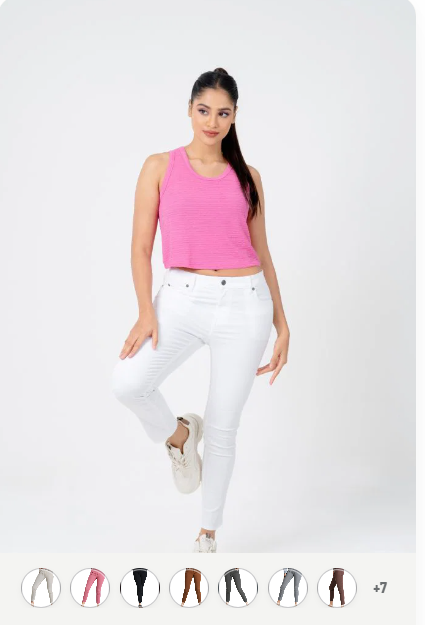
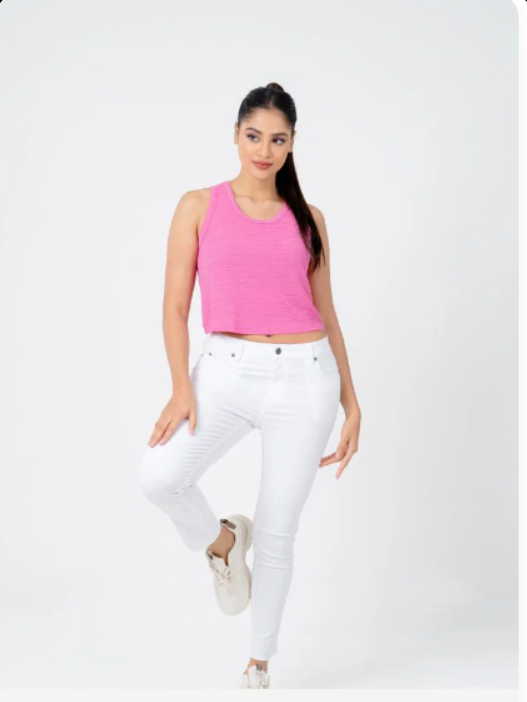
Add new images and enhance index.html with updated navbar, carousel, and card components

diff --git a/index.html b/index.html
@@ -21,44 +21,87 @@
             </a>
         </div>
     </nav>
-    <ul class="nav nav-tabs" id="myTab" role="tablist">
-        <li class="nav-item" role="presentation">
-            <button class="nav-link active" id="home-tab" data-bs-toggle="tab" data-bs-target="#home-tab-pane"
-                type="button" role="tab" aria-controls="home-tab-pane" aria-selected="true">Home</button>
-        </li>
-        <li class="nav-item" role="presentation">
-            <button class="nav-link" id="profile-tab" data-bs-toggle="tab" data-bs-target="#profile-tab-pane"
-                type="button" role="tab" aria-controls="profile-tab-pane" aria-selected="false">Profile</button>
-        </li>
-        <li class="nav-item" role="presentation">
-            <button class="nav-link" id="contact-tab" data-bs-toggle="tab" data-bs-target="#contact-tab-pane"
-                type="button" role="tab" aria-controls="contact-tab-pane" aria-selected="false">Contact</button>
-        </li>
-        <li class="nav-item" role="presentation">
-            <button class="nav-link" id="disabled-tab" data-bs-toggle="tab" data-bs-target="#disabled-tab-pane"
-                type="button" role="tab" aria-controls="disabled-tab-pane" aria-selected="false"
-                disabled>Disabled</button>
-        </li>
-    </ul>
-    <div class="tab-content" id="myTabContent">
-        <div class="tab-pane show active" id="home-tab-pane" role="tabpanel" aria-labelledby="home-tab" tabindex="0">
-            <strong>Home tab’s</strong>
+    <nav class="navbar md:navbar-expand bg-1" data-bs-theme="dark">
+        <div class="container-fluid">
+            <a class="navbar-brand" href="index.html">MOOSE WORLD</a>
+            <button class="btn-icon navbar-toggler" type="button" data-bs-toggle="drawer"
+                data-bs-target="#navbarDarkDrawer" aria-controls="navbarDarkDrawer" aria-expanded="false"
+                aria-label="Toggle navigation">
+                <span class="navbar-toggler-icon" aria-hidden="true"></span>
+            </button>
+            <dialog class="drawer drawer-end" tabindex="-1" id="navbarDarkDrawer"
+                aria-labelledby="navbarDarkDrawerLabel">
+                <div class="drawer-header">
+                    <h5 class="drawer-title" id="navbarDarkDrawerLabel"></h5>
+                    <button type="button" class="btn-close" data-bs-dismiss="drawer" aria-label="Close"></button>
+                </div>
+                <div class="drawer-body mb-2 md:mb-0">
+                    <ul class="nav navbar-nav me-auto">
+                        <li class="nav-item">
+                            <a class="nav-link active" aria-current="page" href="Men.html">MEN</a>
+                        </li>
+                        <li class="nav-item">
+                            <a class="nav-link" href="Women.html">WOMEN</a>
+                        </li>
+                        <li class="nav-item">
+                            <button class="nav-link" type="button" data-bs-toggle="menu" aria-expanded="false">
+                                CRICKET
+                            </button>
+                            <div class="menu">
+                                <a class="menu-item" href="Cricket.html">Action</a>
+                                <a class="menu-item" href="Women.html">Another action</a>
+                                <hr class="menu-divider">
+                                <a class="menu-item" href="Men.html">Something else here</a>
+                            </div>
+                        </li>
+                        <li class="nav-item">
+                            <a class="nav-link" aria-disabled="true">ABOUT</a>
+                        </li>
+                    </ul>
+                    <form class="hstack gap-2" role="search">
+                        <input class="form-control" type="search" placeholder="Search" aria-label="Search" />
+                        <button class="btn-solid btn-icon theme-secondary" type="submit">
+                            <svg class="bi" width="16" height="16">
+                                <use href="#search" />
+                            </svg>
+                        </button>
+                    </form>
+                </div>
+            </dialog>
         </div>
-        <div class="tab-pane" id="profile-tab-pane" role="tabpanel" aria-labelledby="profile-tab" tabindex="0">
-            <strong><a href="Men.html">Profile tab’s</a></strong>
-        </div>
-        <div class="tab-pane" id="contact-tab-pane" role="tabpanel" aria-labelledby="contact-tab" tabindex="0">
-            <p>This is some placeholder content the <strong>Contact tab’s</strong> associated content.</p>
-        </div>
-        <div class="tab-pane" id="disabled-tab-pane" role="tabpanel" aria-labelledby="disabled-tab" tabindex="0">
-            <p>This is some placeholder content the <strong>Disabled tab’s</strong> associated content.</p>
-        </div>
-    </div>
-    <div class="card theme-inverse">
-        <div class="container">
-            <img src="ITP/1.png" class="card-img" alt="...">
-            <div class="card-img-overlay">
+    </nav>
+    <div id="carouselExampleInterval" class="carousel slide" data-bs-autoplay="true">
+        <div class="carousel-inner rounded-5">
+            <div class="carousel-item active" data-bs-interval="2000">
+                <img src="ITP/1.png" class="d-block w-100" alt="...">
             </div>
+            <div class="carousel-item" data-bs-interval="4000">
+                <img src="ITP/2.png" class="d-block w-100" alt="...">
+            </div>
+            <div class="carousel-item" data-bs-interval="6000">
+                <img src="ITP/P3.png" class="d-block w-100" alt="...">
+            </div>
+            <div class="carousel-item" data-bs-interval="6000">
+                <img src="ITP/P4.png" class="d-block w-100" alt="...">
+            </div>
+        </div>
+        <div class="d-flex justify-content-between align-items-center mt-3">
+            <div class="carousel-indicators">
+                <button type="button" data-bs-target="#carouselExampleInterval" data-bs-slide-to="0" class="active"
+                    aria-current="true" aria-label="Slide 1"></button>
+                <button type="button" data-bs-target="#carouselExampleInterval" data-bs-slide-to="1"
+                    aria-label="Slide 2"></button>
+                <button type="button" data-bs-target="#carouselExampleInterval" data-bs-slide-to="2"
+                    aria-label="Slide 3"></button>
+                <button type="button" data-bs-target="#carouselExampleInterval" data-bs-slide-to="3"
+                    aria-label="Slide 4"></button>
+            </div>
+            <button class="btn-icon btn-sm carousel-control-play-pause" type="button"
+                data-bs-target="#carouselExampleInterval" aria-label="Pause" data-bs-pause-label="Pause"
+                data-bs-play-label="Play">
+                <span class="carousel-icon-pause" aria-hidden="true"></span>
+                <span class="carousel-icon-play" aria-hidden="true"></span>
+            </button>
         </div>
     </div>
 
@@ -102,6 +145,43 @@
             </div>
         </div>
     </div>
+
+    <div class="card theme-inverse">
+        <div class="container">
+            <img src="ITP/2.png" class="card-img" alt="...">
+            <div class="card-img-overlay">
+            </div>
+        </div>
+    </div>
+
+    <div id="carouselMultiple" class="carousel slide" data-bs-ends="stop"
+        style="--bs-carousel-items: 3; --bs-carousel-items-gap: 1rem;">
+        <div class="d-flex justify-content-between align-items-center">
+            <h5 class="mb-0">SELECT YOUR CHOICE............</h5>
+            <div>
+                <button class="btn-icon btn-sm" type="button" data-bs-target="#carouselMultiple" data-bs-slide="prev"
+                    style="--bs-carousel-control-icon-width: 1rem;">
+                    <span class="carousel-icon-prev" aria-hidden="true"></span>
+                    <span class="visually-hidden">Previous</span>
+                </button>
+                <button class="btn-icon btn-sm" type="button" data-bs-target="#carouselMultiple" data-bs-slide="next"
+                    style="--bs-carousel-control-icon-width: 1rem;">
+                    <span class="carousel-icon-next" aria-hidden="true"></span>
+                    <span class="visually-hidden">Next</span>
+                </button>
+            </div>
+        </div>
+        <div class="carousel-inner">
+            <div class="carousel-item active"><img src="ITP/M1.png" class="d-block w-70 rounded-5" alt="..."></div>
+            <div class="carousel-item"><img src="ITP/M3.png" class="d-block w-70 rounded-5" alt="..."></div>
+            <div class="carousel-item"><img src="ITP/M4.png" class="d-block w-70 rounded-5" alt="..."></div>
+            <div class="carousel-item"><img src="ITP/G4.png" class="d-block w-70 rounded-5" alt="..."></div>
+            <div class="carousel-item"><img src="ITP/G3.png" class="d-block w-70 rounded-5" alt="..."></div>
+            <div class="carousel-item"><img src="ITP/G5.png" class="d-block w-70 rounded-5" alt="..."></div>
+            <div class="carousel-item"><img src="ITP/M6.png" class="d-block w-70 rounded-5" alt="..."></div>
+        </div>
+    </div>
+
     <footer class="bg-black text-light pt-5 pb-4 border-top">
         <div class="container">
             <div class="row g-4">
@@ -133,12 +213,6 @@
                 </div>
             </div>
     </footer>
-
-
-
-
-
-
     <script src="app.js"></script>
 </body>
 
